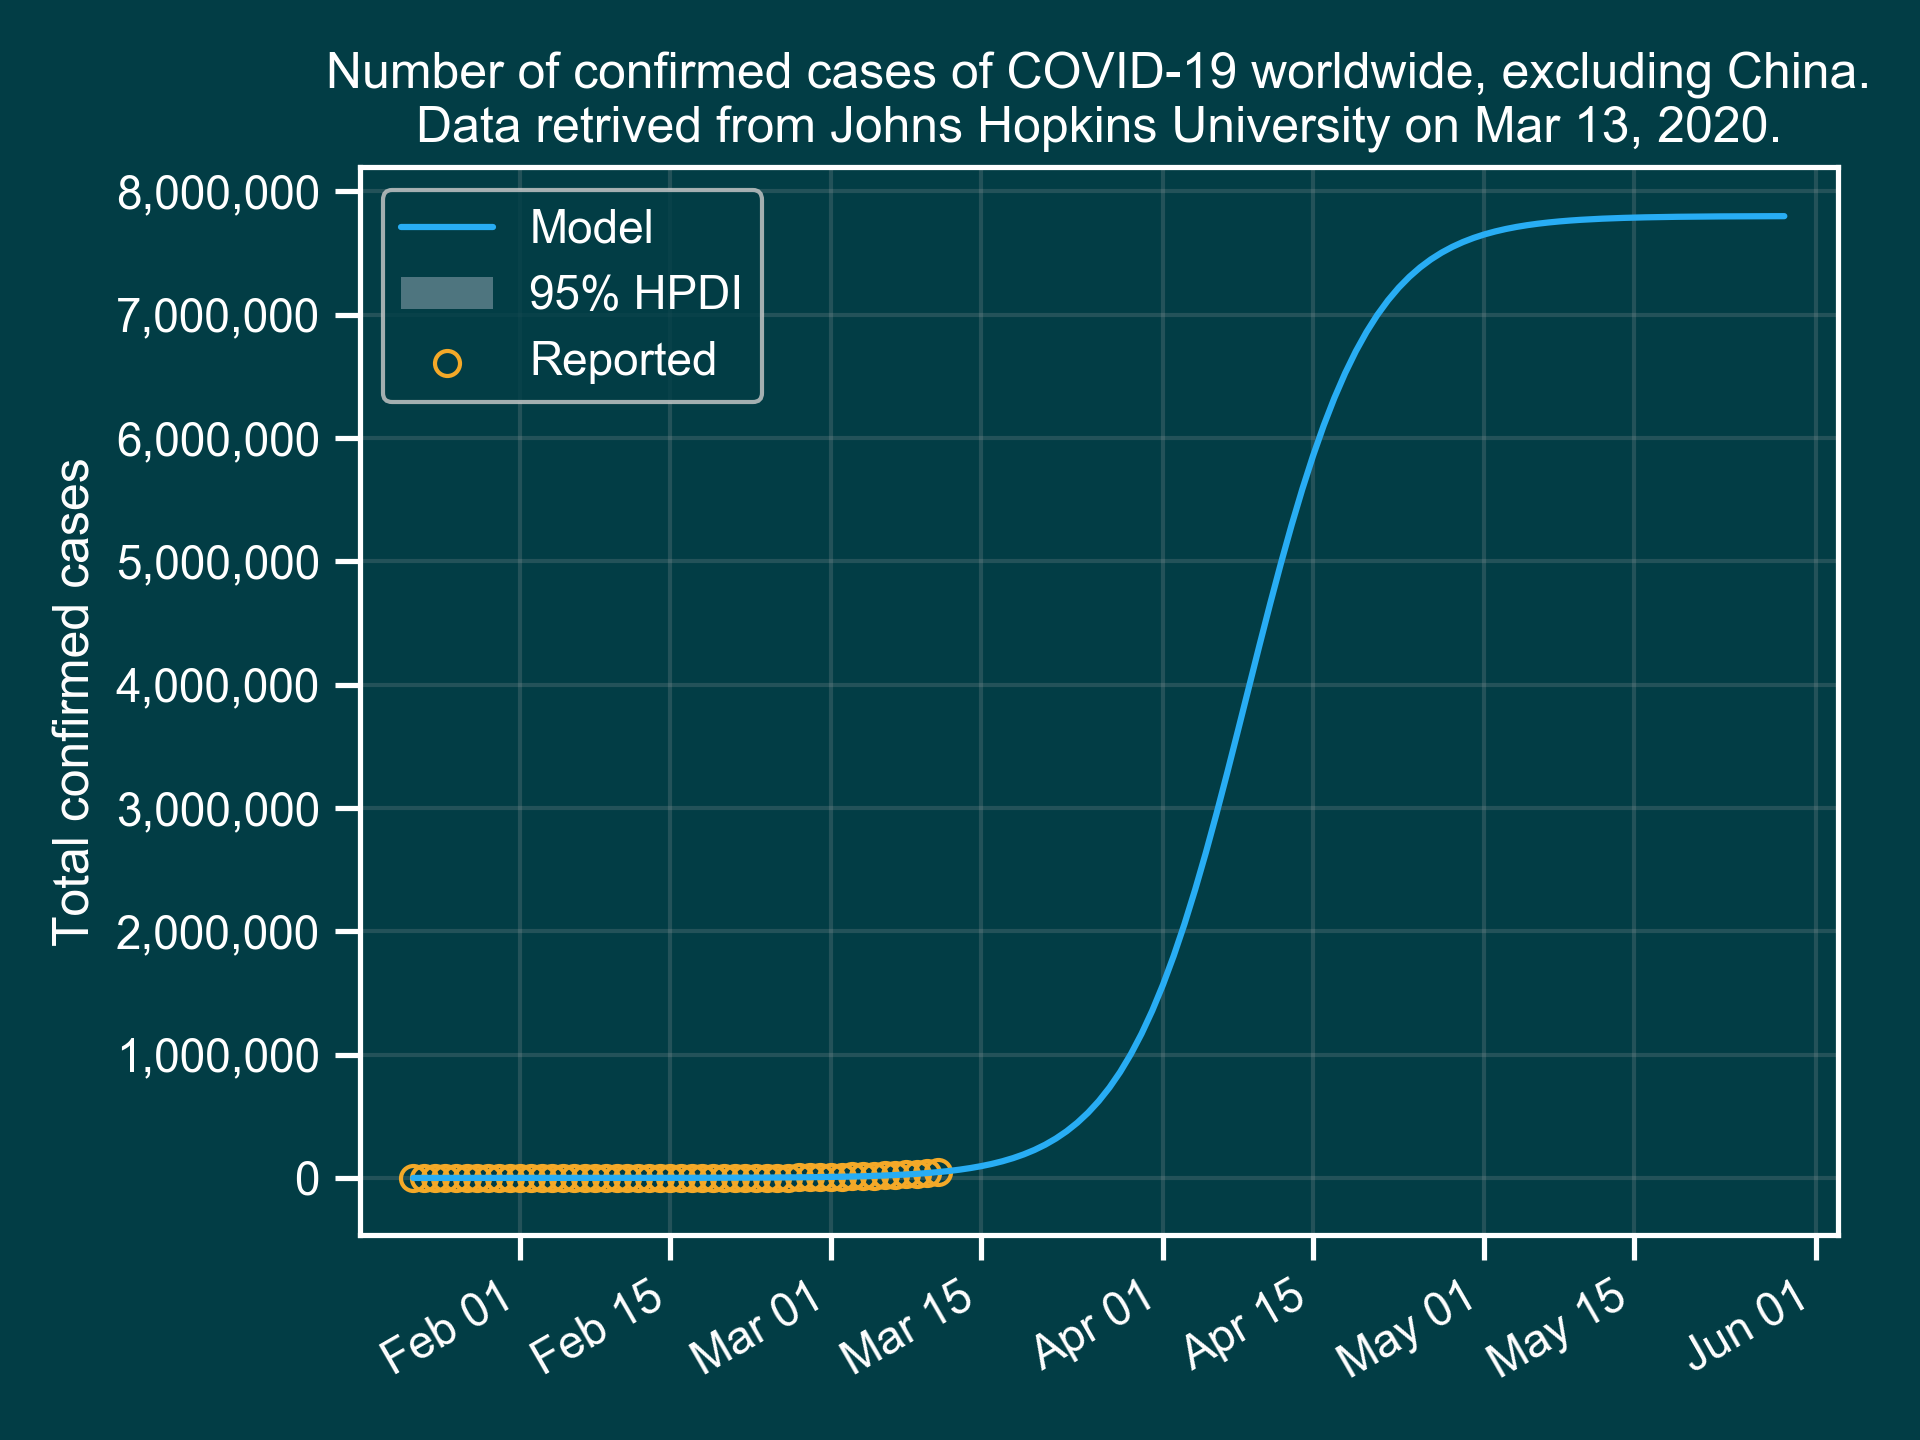
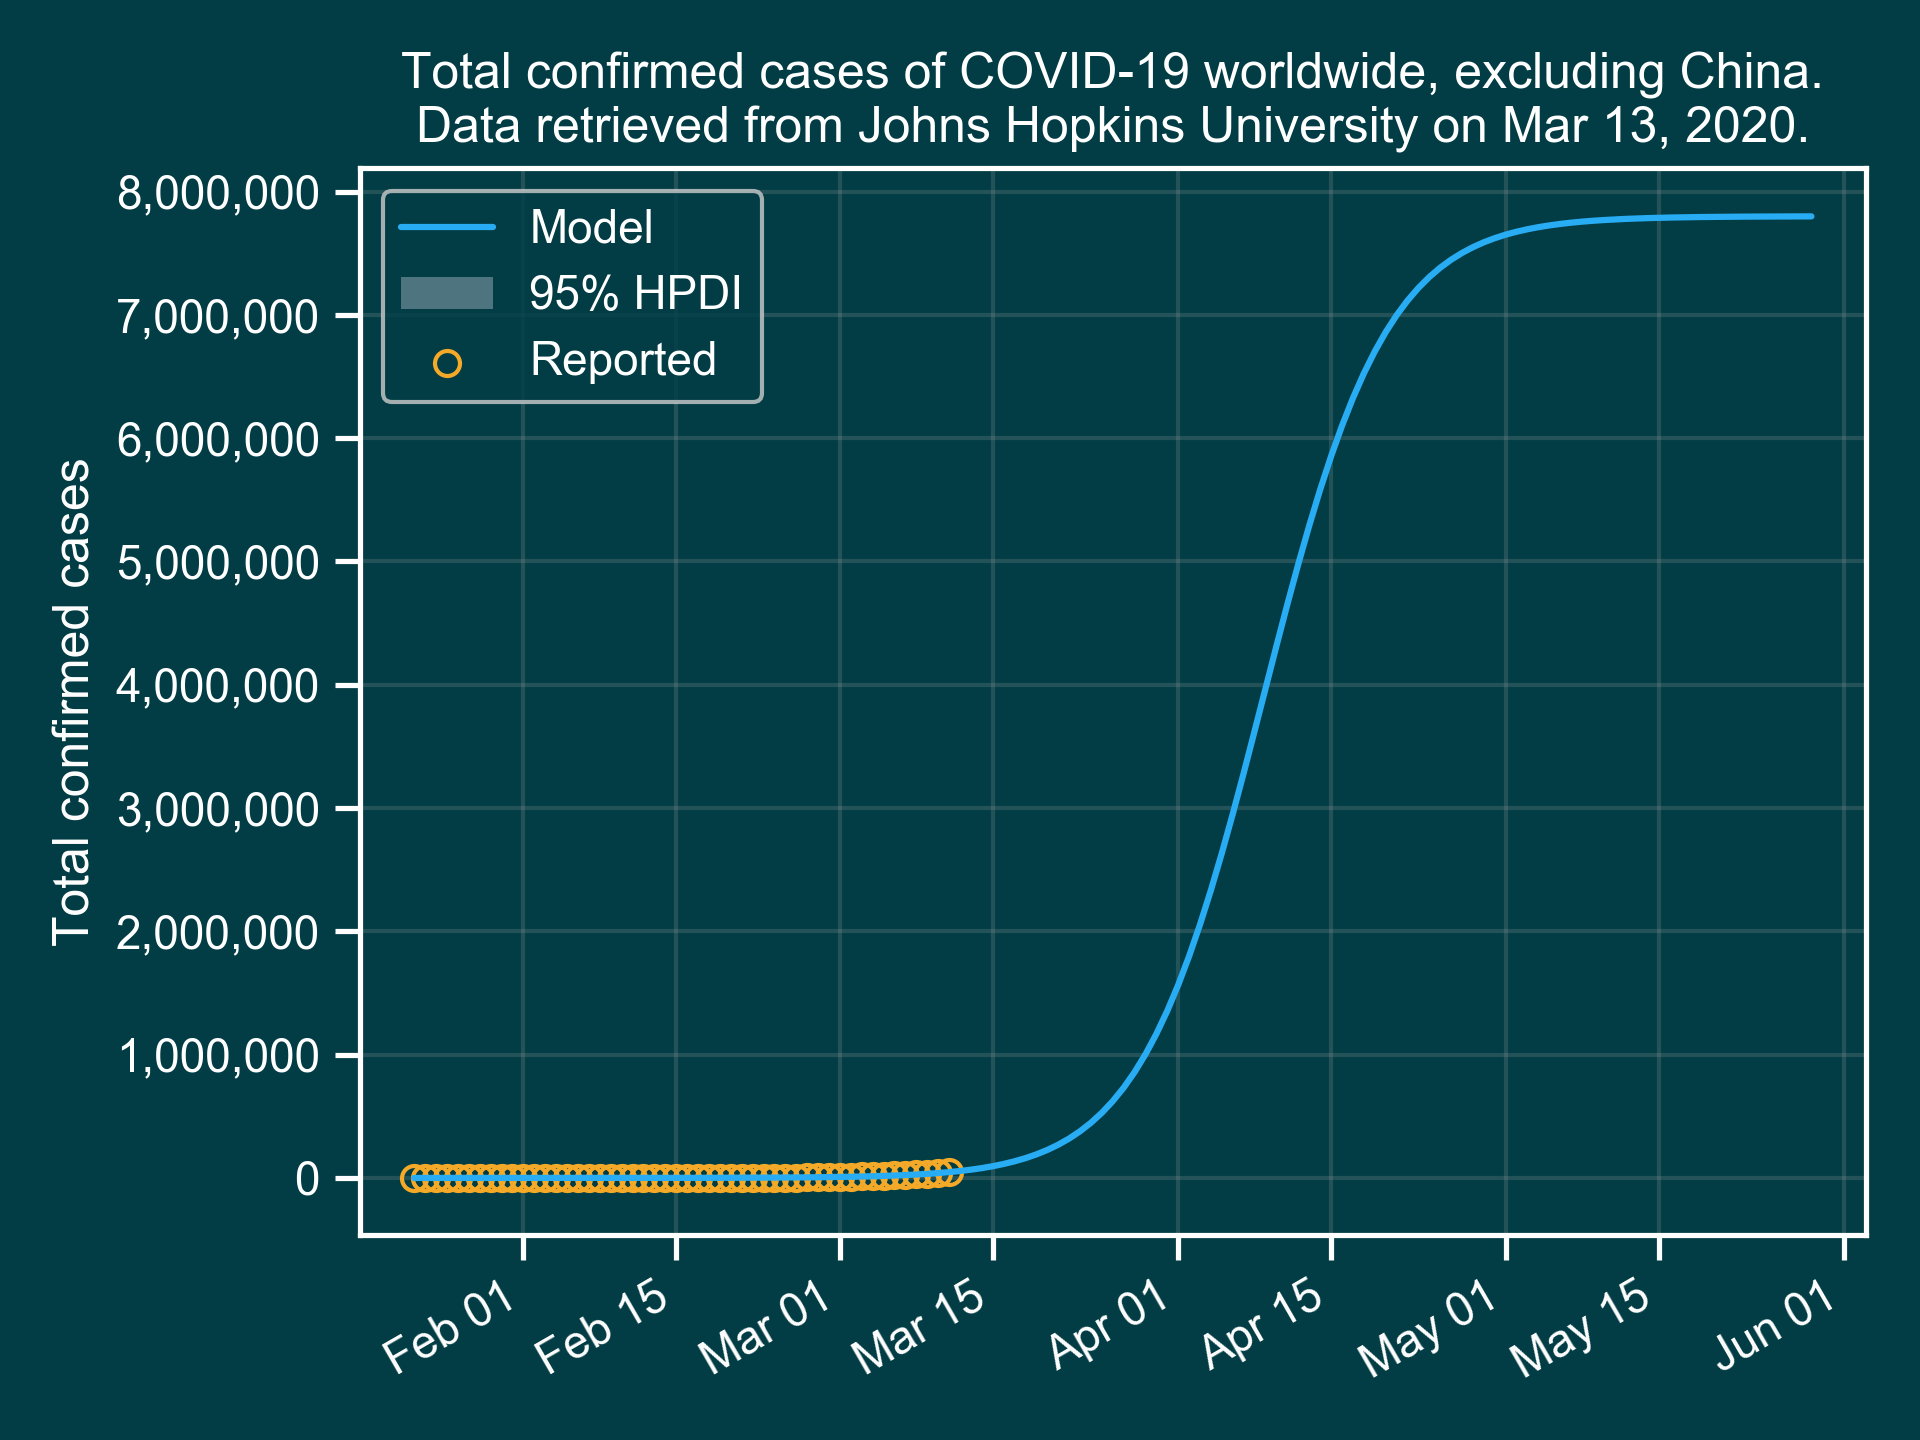
Work

diff --git a/code/run_model.py b/code/run_model.py
@@ -409,8 +409,8 @@ def plot_data_and_model(fit, dates, cases, settings):
     date_str = datetime.now().strftime('%b %d, %Y')
 
     title = (
-        "Number of confirmed cases of COVID-19 worldwide, excluding China.\n"
-        f"Data retrived from Johns Hopkins University on {date_str}."
+        "Total confirmed cases of COVID-19 worldwide, excluding China.\n"
+        f"Data retrieved from Johns Hopkins University on {date_str}."
     )
 
     ax.set_title(title)
